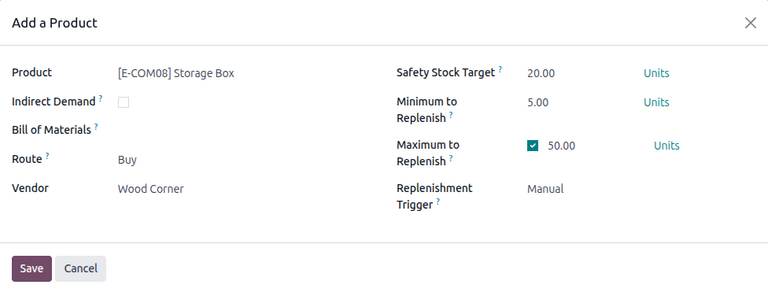
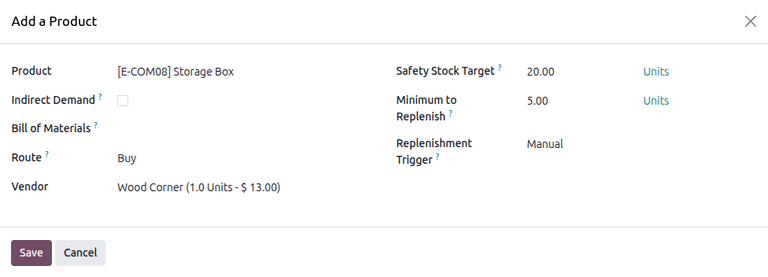
[IMP] MRP: MPS Update 19.0
closes odoo/documentation#19485

X-original-commit: be8d1943735c95f228f11eedf4aa77e8c8892c5f

diff --git a/content/applications/inventory_and_mrp/manufacturing/workflows/use_mps.rst b/content/applications/inventory_and_mrp/manufacturing/workflows/use_mps.rst
@@ -165,10 +165,6 @@ Then, specify the following information about the product:
   products, `Manufacture` for manufactured products).
 - :guilabel:`Vendor`: Select the vendor for the product. This field **only** appears if the
   :guilabel:`Buy` option was selected in the :guilabel:`Route` field.
-- :guilabel:`Batch Size`: Split |MOs| into orders of this quantity. This field **only** appears if
-  the :guilabel:`Manufacture` option was selected in the :guilabel:`Route` field. Toggle the
-  :guilabel:`No Batch Size` checkbox to enter a batch size, or leave it un-toggled if no batch size
-  should be specified.
 
 .. note::
    Selecting a BoM when adding a product also adds any components listed on the BoM to the |MPS|. If
@@ -189,27 +185,26 @@ replenishment quantities for each product. Enter the following information:
   across all time periods.
 - :guilabel:`Minimum to Replenish`: Specify the minimum quantity of the product to replenish for
   each period.
-- :guilabel:`Maximum to Replenish`: Specify the maximum quantity of the product to replenish for
-  each period. If the demand is higher than this maximum, the remaining quantity is automatically
-  transferred to the next period. Toggle the :guilabel:`No Maximum` checkbox to enter a maximum
-  value, or leave it un-toggled if no maximum should be specified.
 
-If no minimum or maximum replenishment limits are set, the |MPS| suggests the replenishment quantity
-needed to reach the :guilabel:`Safety Stock Target` while accounting for the starting stock and
-forecasted demand. In other words, the suggested quantity in the replenishment row is calculated by
-the following relation:
+By default, the |MPS| suggests the replenishment quantity needed to reach the :guilabel:`Safety
+Stock Target` while accounting for the starting stock and forecasted demand. In other words, the
+suggested quantity in the replenishment row is calculated by the following relation:
 
 .. math::
 
    \begin{align}
    \text{Replenishment} &= \text{Safety Stock Target} \\
    &- \text{Starting Stock} \\
-   &- \text{Forecasted Demand} \\
-   &- \text{Indirect Demand Forecast}
+   &+ \text{Forecasted Demand} \\
+   &+ \text{Indirect Demand Forecast}
    \end{align}
 
-If minimum or maximum limits are set, the suggested replenishment quantity is always bounded by
-these limits, regardless of the needed quantity to reach the :guilabel:`Safety Stock Target`.
+If a :guilabel:`Minimum to Replenish` value is set, the |MPS| always suggests this minimum
+replenishment quantity, unless ``Safety Stock Target - Starting Stock + Forecasted Demand ≤ 0``.
+
+.. note::
+   In general, the |MPS| suggests a quantity of `0` if ``Safety Stock Target - Starting Stock +
+   Forecasted Demand ≤ 0``.
 
 Specify replenishment trigger
 ~~~~~~~~~~~~~~~~~~~~~~~~~~~~~
@@ -245,6 +240,39 @@ Remove a product
 To remove a product from the |MPS|, select the checkbox next to its name. Then, click the
 :icon:`fa-cog` :guilabel:`Actions` button at the top of the screen, and select :guilabel:`Delete`
 from the drop-down menu. On the :guilabel:`Confirmation` pop-up window, click :guilabel:`Ok`.
+
+.. _manufacturing/use_mps/suggest-forecasted:
+
+Suggest forecasted demand
+=========================
+
+Instead of an arbitrary value, the *Forecasted Demand* for each product and its time periods can be
+automatically suggested based on historical demand. To do so, click the :icon:`fa-pencil`
+:guilabel:`(Suggest Forecasted Demand)` icon next to the :guilabel:`- Forecasted Demand` row header.
+This opens the *Suggest Forecasted Demand* pop-up window.
+
+In the :guilabel:`Period` field, select a time period. To suggest forecasted demand quantities for
+all periods, leave the field blank.
+
+Next to the :guilabel:`Based on` field, select one of the following options from the drop-down menu
+to specify the source of the new estimate:
+
+- :guilabel:`Actual Demand`: Suggest based on previously confirmed or completed outgoing moves for
+  the matching period one year ago.
+- :guilabel:`Previous Year`: Suggest based on completed outgoing moves **only** for matching period
+  one year ago.
+- :guilabel:`Last 30 Days`: Suggest based on the product's average demand over the last 30 days,
+  prorated to the length of one time period.
+- :guilabel:`Last 3 Months`: Suggest based on the product's average demand over the last three
+  months, prorated to the length of one time period.
+- :guilabel:`Last 12 Months`: Suggest based on the product's average demand over the last 12 months,
+  prorated to the length of one time period.
+
+In the second field, enter the scaling factor to account for a :guilabel:`(#) %` increase or
+decrease in projected demand (e.g., `110%` projects a demand growth of 10 percent).
+
+Finally, click :guilabel:`Apply` to apply the suggested demand for the specified time periods, or
+click :guilabel:`Discard` to cancel.
 
 .. _manufacturing/mps/replenish:
 
@@ -308,11 +336,15 @@ The following rows can be added to the |MPS| in addition to the default rows sho
   time period.
 - :guilabel:`Actual Demand Y-2`: Displays the :guilabel:`Actual Demand` two years before the current
   time period.
+- :guilabel:`Indirect Actual Demand`: Changes the :guilabel:`- Indirect Demand Forecast` row to
+  :guilabel:`- Actual / Indirect Demand Forecast`, comparing the component's confirmed demand and
+  its forecasted demand.
 - :guilabel:`Actual Replenishment`: Changes the :guilabel:`+ Replenishment` row to :guilabel:`+
   Actual / Replenishment`, comparing the product's replenished quantity and its suggested quantity.
 - :guilabel:`Available to Promise`: Changes the :guilabel:`= Forecasted Stock` row to :guilabel:`=
   ATP / Forecasted Stock`, comparing the product's available stock (``Starting Stock - Actual Demand
-  + Replenishment``) and its forecasted stock.
+  + Replenishment``) and its forecasted stock. If the product is a component, the available stock is
+  calculated by ``Starting Stock - Actual Demand - Indirect Actual Demand + Replenishment``.
 
 Filters
 -------
@@ -329,6 +361,8 @@ Users can filter records from the |MPS| based on the following criteria:
 - :guilabel:`Replenishment Too High`: Filter by products with a replenished quantity above the
   suggested replenishment quantity (i.e., with at least one :guilabel:`+ Replenishment` cell
   highlighted in red).
+- :guilabel:`Forecast Too Low`: Filter by products with an actual demand greater than the forecasted
+  demand (e.g., :guilabel:`Actual Demand` is greater than :guilabel:`Forecasted Demand`).
 - :guilabel:`Manually Replenished`: Filter by products with the *Replenishment Trigger* set to
   *Manual*.
 - :guilabel:`Automatically Replenished`: Filter by products with the *Replenishment Trigger* set to
